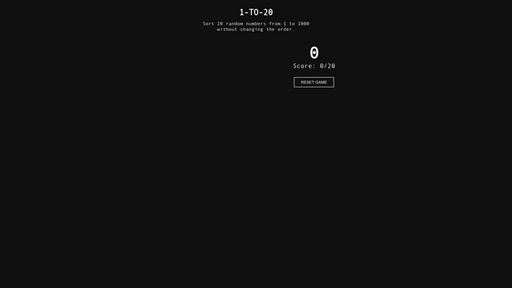
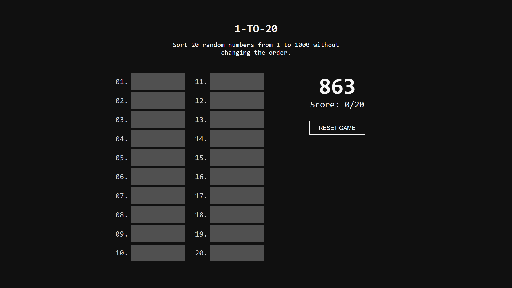
[update] mincode: 1-to-20

Changed region(s): [[0.2188, 0.25, 0.5312, 0.9062], [0.375, 0.0312, 0.7188, 0.375], [0.5938, 0.4375, 0.7188, 0.4688]]

diff --git a/mincode/projects/1-to-20/styles.css b/mincode/projects/1-to-20/styles.css
@@ -103,15 +103,24 @@ body {
   flex-direction: column;
   align-items: center;
 }
+
 .title h1 {
   margin-bottom: 1rem;
 }
+
 .title p {
   max-width: 30rem;
   font-size: 1.2rem;
   text-wrap: pretty;
   text-align: center;
 }
+
+.line {
+  width: 100%;
+  margin-top: 2rem;
+  opacity: 0.1;
+}
+
 .container {
   padding: 3rem;
   display: grid;
@@ -120,7 +129,7 @@ body {
 }
 
 .list {
-  gap: 0.4rem;
+  gap: 1.4rem;
   columns: 2;
 }
 
@@ -144,7 +153,6 @@ body {
 
 .order-num {
   width: 3rem;
-  margin-left: 1.4rem;
   color: var(--grey-l2);
   font-size: 1.4rem;
   text-align: right;
@@ -158,12 +166,15 @@ body {
   font-size: 1.6rem;
   text-align: center;
 }
+
 .item-played .num {
   background-color: var(--grey-d) !important;
 }
+
 .item-selected .num {
   background-color: var(--grey);
 }
+
 .item-selected:hover .num {
   background-color: var(--grey-l);
 }
@@ -184,7 +195,7 @@ body {
 button {
   appearance: none;
   margin-top: 2rem;
-  padding: 0.6rem 1.6rem;
+  padding: 0.8rem 1.6rem;
   border: 1px solid var(--white);
   background-color: transparent;
   color: var(--white);
@@ -196,4 +207,34 @@ button {
 
 button:hover {
   background-color: var(--grey-d);
+}
+
+.reset-mobile {
+  max-width: 10rem;
+  margin: 0 auto;
+  margin-top: 1rem;
+  display: none;
+}
+
+.reset-pc {
+  display: block;
+}
+
+@media (max-width: 668px) {
+  .container {
+    grid-template-columns: 28rem;
+  }
+
+  .current-num {
+    margin-bottom: 1rem;
+    order: -1;
+  }
+
+  .reset-mobile {
+    display: block;
+  }
+
+  .reset-pc {
+    display: none;
+  }
 }

diff --git a/mincode/projects/1-to-20/index.html b/mincode/projects/1-to-20/index.html
@@ -35,14 +35,16 @@
             Sort 20 random numbers from 1 to 1000 without changing the order.
           </p>
         </div>
+        <hr class="line" />
         <div class="container">
           <ul id="listNums" class="list"></ul>
 
           <div class="current-num">
             <div id="current-num">0</div>
             <div class="score">Score: <span id="score">0/20</span></div>
-            <button id="reset">Reset game</button>
+            <button id="reset" class="reset-pc">Reset game</button>
           </div>
+          <button id="reset" class="reset-mobile">Reset game</button>
         </div>
       </div>
     </div>
